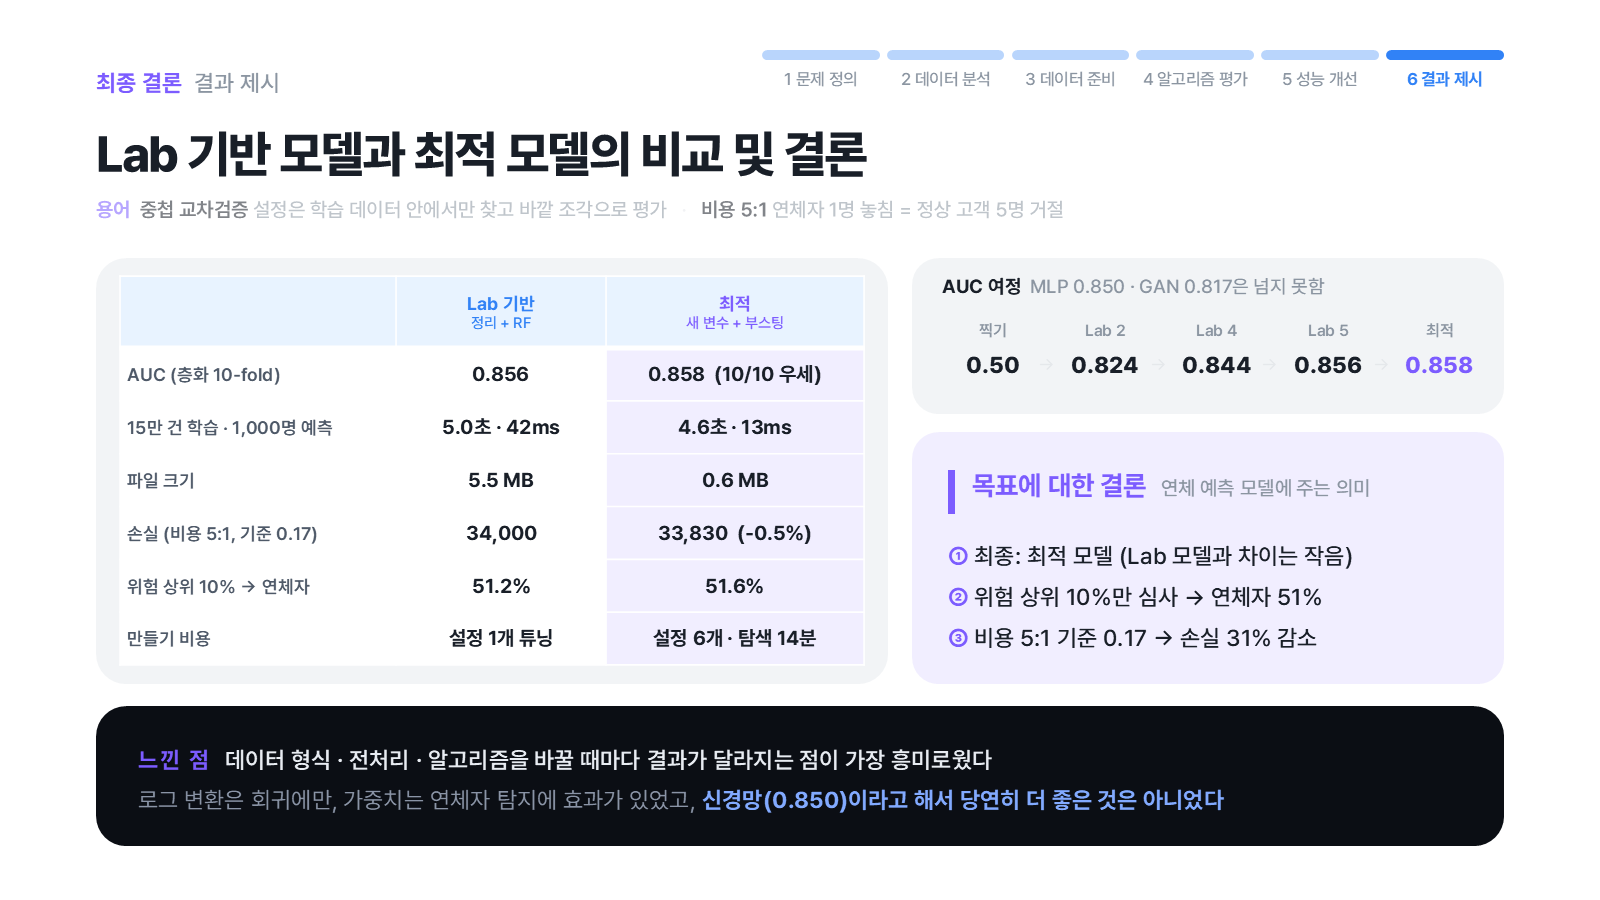
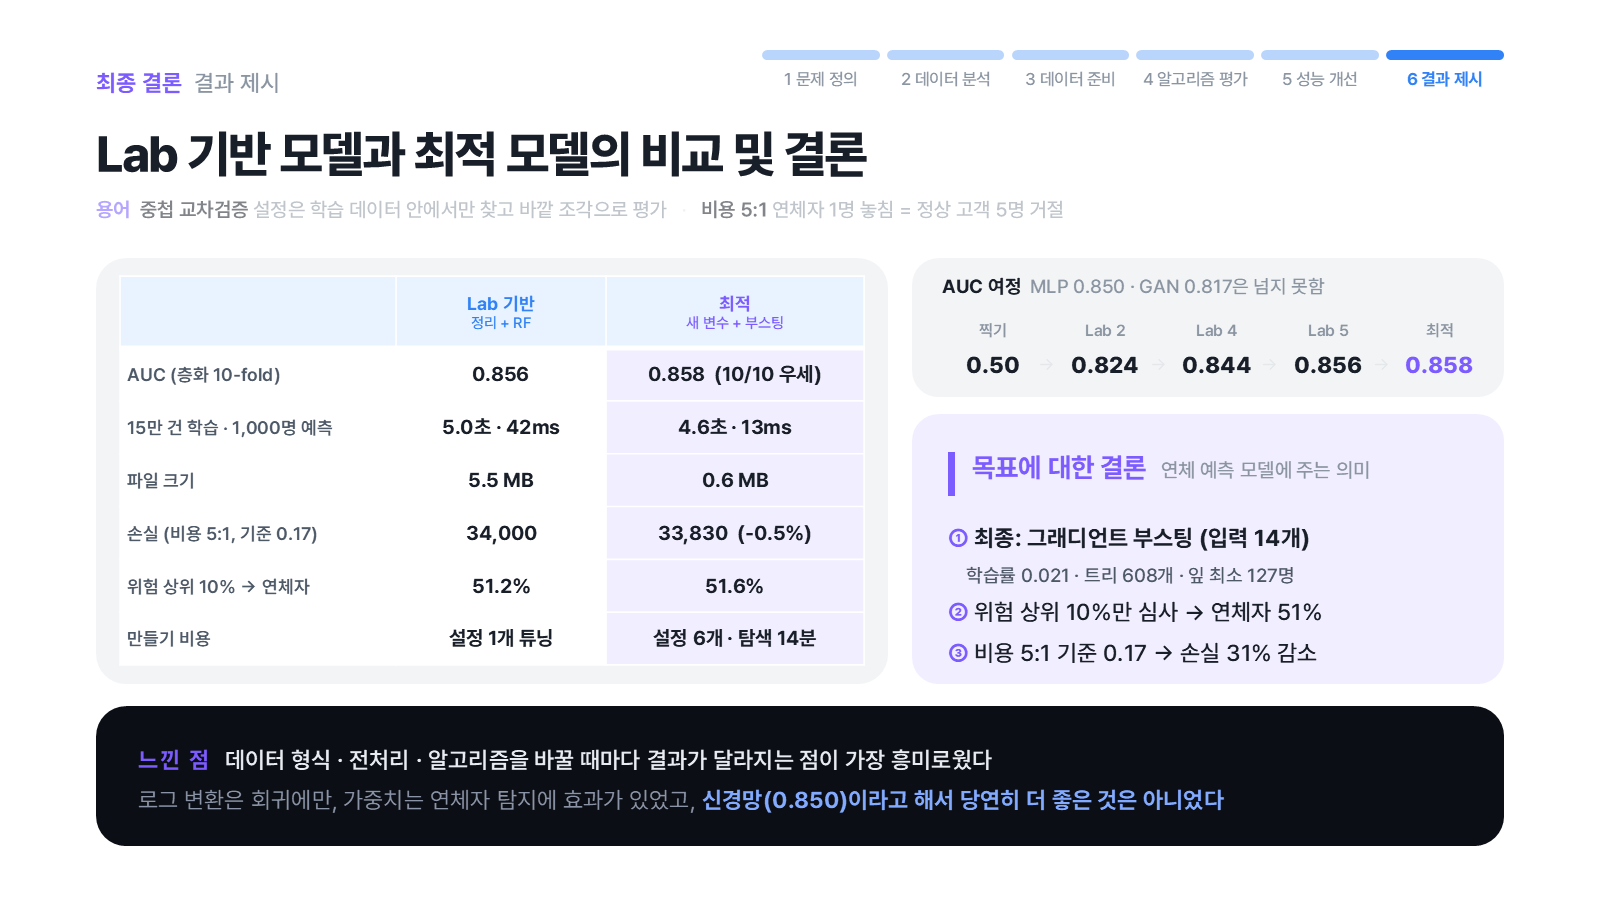
Name the final model concretely in the slide 22 conclusion box

Changed region(s): [[0.5938, 0.4978, 0.875, 0.7467]]

diff --git a/slides/build_deck.py b/slides/build_deck.py
@@ -1741,7 +1741,7 @@ lparts.append(s.shapes[-1])
 group(s, lparts, "anim1_compare")
 # AUC 여정
 journey = [("찍기", "0.50"), ("Lab 2", "0.824"), ("Lab 4", "0.844"), ("Lab 5", "0.856"), ("최적", "0.858")]
-jparts = [rect(s, 7.6, 2.15, 4.93, 1.3, C["card"], radius=0.22),
+jparts = [rect(s, 7.6, 2.15, 4.93, 1.16, C["card"], radius=0.22),
           text(s, 7.85, 2.27, 4.5, 0.3, [[("AUC 여정  ", {"weight": "bold"}), ("MLP 0.850 · GAN 0.817은 넘지 못함", {"color": C["mute"]})]],
                size=11.5, weight="medium")]
 for k, (lab, v) in enumerate(journey):
@@ -1752,8 +1752,9 @@ for k, (lab, v) in enumerate(journey):
     if k:
         jparts.append(text(s, x - 0.16, 2.92, 0.2, 0.3, "→", size=11, color=C["line"], align="c"))
 group(s, jparts, "anim2_journey")
-conclusion_card(s, 7.6, 3.6, 4.93, 2.1, [
-    [("① ", {"color": C["violet"], "weight": "bold"}), ("최종: 최적 모델 (Lab 모델과 차이는 작음)", {})],
+conclusion_card(s, 7.6, 3.45, 4.93, 2.25, [
+    [("① ", {"color": C["violet"], "weight": "bold"}), ("최종: 그래디언트 부스팅 (입력 14개)", {"weight": "bold"})],
+    [("    학습률 0.021 · 트리 608개 · 잎 최소 127명", {"size": 11.5, "color": C["sub"]})],
     [("② ", {"color": C["violet"], "weight": "bold"}), ("위험 상위 10%만 심사 → 연체자 51%", {})],
     [("③ ", {"color": C["violet"], "weight": "bold"}), ("비용 5:1 기준 0.17 → 손실 31% 감소", {})],
 ], anim=3)
